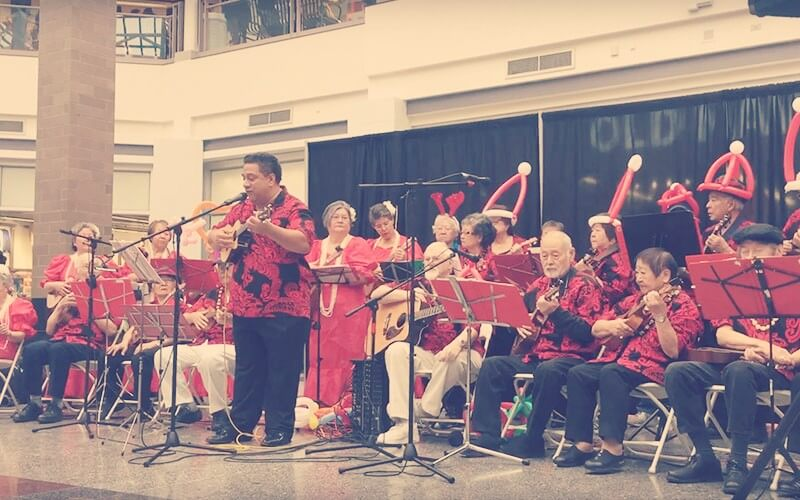
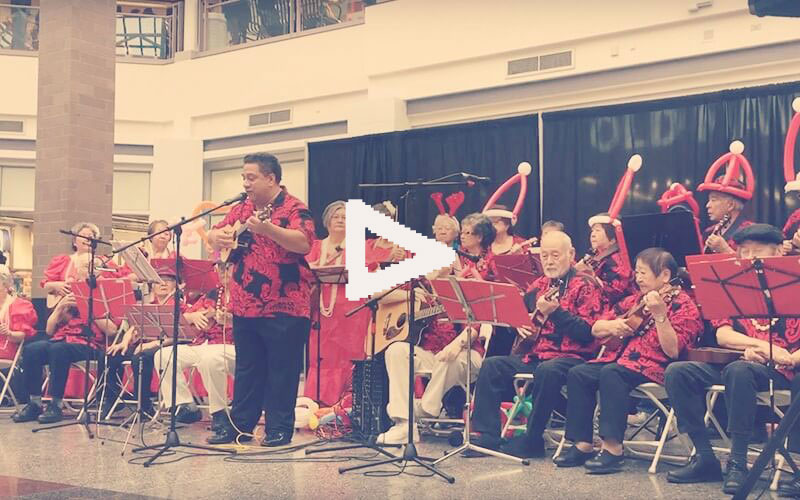
Updated responsive styles

Changed region(s): [[0.4062, 0.39, 0.5938, 0.6]]

diff --git a/index.html b/index.html
@@ -7,10 +7,10 @@ layout: default
   <div class="container">
     <div class="row">
       <div class="three columns">
-        <img src="images/nakupuna-logo.png">
+        <img class="nakupuna-logo" src="images/nakupuna-logo.png">
       </div>
       <div class="eight offset-by-one columns">
-        <p>In 1997, a group of Hawaiian-American seniors got together and formed a ukulele club in Chicago. They called it the Na Kupuna Ukulele Club, as Na Kupuna means "elder" in the Hawaiian language. Together, the group of island and mainland born seniors sing, strum the ukulele and dance the hula to over 300 songs, including iconic Hawaiian classics like "Aloha Oe," "Blue Hawaii," "Hawaiian Wedding Song" and "Kaulana Na Pua." The group has held countless performances over the years, all across Chicago and as far as Hawaii. One of the club's most notable performances was when the City of Chicago chose the Na Kupuna Ukulele Club to perform at the 2004 opening of Millennium Park.</p>
+        <p>In 1997, a group of Hawaiian-American seniors got together and formed a ukulele club in Chicago. They called it the Na Kupuna Ukulele Club, as Na Kupuna means &ldquo;elder&rdquo; in the Hawaiian language. Together, the group of island and mainland born seniors sing, strum the ukulele and dance the hula to over 300 songs, including iconic Hawaiian classics like &ldquo;Aloha Oe&rdquo;, &ldquo;Blue Hawaii&rdquo;, &ldquo;Hawaiian Wedding Song&rdquo;, and &ldquo;Kaulana Na Pua&rdquo;. The group has held countless performances over the years, all across Chicago and as far as Hawaii. One of the club&rsquo;s most notable performances was when the City of Chicago chose the Na Kupuna Ukulele Club to perform at the 2004 opening of Millennium Park.</p>
         <br>
         <p>Our love of music, camaraderie and appreciation for Hawaiian culture drives and inspires us to continue to make beautiful music together. Come see us soon. Aloha!</p>
       </div>
@@ -27,14 +27,14 @@ layout: default
         <h3>Lincolnwood Town Center Mall</h3>
         <p>Lincolnwood, Illinois</p>
         <p>10.10.2016</p>
-        <a href="https://www.youtube.com/watch?v=vSPQShVjiKU" class="button">Watch Video</a>
+        <a href="https://www.youtube.com/watch?v=vSPQShVjiKU" class="button button-spacer">Watch Video</a>
       </div>
       <div class="four columns">
         <a href="https://www.youtube.com/watch?v=-j_VtGdfgpQ"><img class="photo-thumb" src="images/waikiki.jpg"></a>
         <h3>44th Annual Ukulele Festival</h3>
         <p>Waikiki, Hawaii</p>
         <p>7.20.2014</p>
-        <a href="https://www.youtube.com/watch?v=-j_VtGdfgpQ" class="button">Watch Video</a>
+        <a href="https://www.youtube.com/watch?v=-j_VtGdfgpQ" class="button button-spacer">Watch Video</a>
       </div>
       <div class="four columns">
         <a href="https://www.youtube.com/watch?v=gYoh7faBmRY"><img class="photo-thumb" src="images/lincolnwood-02.jpg"></a>
@@ -71,13 +71,13 @@ layout: default
         <a href="https://www.chicagoreader.com/chicago/four-strings-and-a-cloud-of-dust/Content?oid=905158"><img class="photo-thumb" src="images/strings.jpg"></a>
         <h3>"Four Strings and a Cloud of Dust"</h3>
         <p>Chicago Reader</p>
-        <a href="https://www.chicagoreader.com/chicago/four-strings-and-a-cloud-of-dust/Content?oid=905158" class="button">Read Article</a>
+        <a href="https://www.chicagoreader.com/chicago/four-strings-and-a-cloud-of-dust/Content?oid=905158" class="button button-spacer">Read Article</a>
       </div>
       <div class="four columns">
         <a href="http://chicago.suntimes.com/news/toshiko-daisy-okura-obituary-rogers-park-chicago-ukelele-hawaiian/"><img class="photo-thumb" src="images/wedding.jpg"></a>
         <h3>"Toshiko ‘Daisy’ Okura, ukulele strummer from Hawaii"</h3>
         <p>Chicago Sun Times</p>
-        <a href="http://chicago.suntimes.com/news/toshiko-daisy-okura-obituary-rogers-park-chicago-ukelele-hawaiian/" class="button">Read Article</a>
+        <a href="http://chicago.suntimes.com/news/toshiko-daisy-okura-obituary-rogers-park-chicago-ukelele-hawaiian/" class="button button-spacer">Read Article</a>
       </div>
       <div class="four columns">
         <a href="http://www.chicagotribune.com/news/obituaries/ct-helen-kuwashima-obituary-met-20170801-story.html"><img class="photo-thumb" src="images/helen.jpg"></a>

diff --git a/_sass/_layout.scss b/_sass/_layout.scss
@@ -2,6 +2,11 @@
  * General content
  */
 
+.section-vertical-padding--small {
+  padding-top: $spacing-unit * 2;
+  padding-bottom: $spacing-unit * 2;
+}
+
 .section-vertical-padding {
   padding-top: $spacing-unit * 3;
   padding-bottom: $spacing-unit * 3;
@@ -17,7 +22,7 @@
  */
 
  .intro-section {
-  color: #ffffff;
+  color: #3C2109;
   padding-bottom: 12rem;
   position: relative;
   background: #f7ab96; /* Old browsers */
@@ -47,16 +52,6 @@
  * Performances section
  */
 
-.video-thumb {
-  position: relative;
-}
-
- .video-icon {
-  position: absolute;
-  width: 4rem;
-  z-index: 9;
- }
-
 .performances-section {
   color: #3C2109;
   background: url("../images/eggshell.jpg") repeat top center;
@@ -78,6 +73,11 @@
   -moz-box-shadow: 0px 0px 20px 3px rgba(60,33,9,0.15);
   box-shadow: 0px 0px 20px 3px rgba(60,33,9,0.15);
   border-radius: 4px;
+  transition: border-color 0.3s ease;
+}
+
+.photo-thumb:hover {
+  border-color: #fae2be;
 }
 
 
@@ -135,6 +135,7 @@
 
 .quote-section h2 {
   margin-bottom: 2rem;
+  line-height: 3rem;
  }
 
 .quote-section p {
@@ -156,15 +157,14 @@
 /**
  * Site footer
  */
-.site-footer {
-    padding: $spacing-unit 0;
-    background-image: url("../images/rainbow-island.png");
-    background-size: cover;
-    background-repeat: no-repeat;
-    background-position: center bottom;
-    color: white;
-    height: 700px;
-    position: relative;
+
+.sub-footer {
+  padding: $spacing-unit 0;
+  background-image: url("../images/rainbow-island.png");
+  background-size: cover;
+  background-repeat: no-repeat;
+  background-position: center bottom;
+  height: 400px;
 }
 
 .site-footer a {
@@ -172,38 +172,103 @@
   cursor: pointer;
 }
 
-.footer-text {
-    position: absolute;
-    bottom: 40px;
-    color: #ffffff;
-    z-index: 99;
+footer {
+    color: #3C2109;
     width: 100%;
+    background-color: #5fc8de;
     text-align: center;
     font-family: 'Merriweather', serif;
     font-weight: 400;
-}
-
-.footer-text h4 {
-    font-size: .9rem;
-    margin-bottom: .5rem;
-}
-
-.footer-text p {
-    font-size: .7rem;
-    margin-bottom: .5rem;
 }
 
 .flower {
   width: 2rem;
 }
 
-.blue-extend {
-  background-color: red;
-  height: 100px;
+footer h4 {
+    font-size: .9rem;
+    margin-bottom: .75rem;
 }
 
-.footer-text .legal-text{
+footer p {
+    font-size: .7rem;
+    line-height: 1.25rem;
+    margin-bottom: 1rem;
+}
+
+footer .legal-text{
   font-family: 'Londrina Solid', cursive;
   font-size: 1.125rem;
   letter-spacing: 1px;
 }
+
+
+/**
+ * Media Queries
+ */
+
+@media (max-width: 1000px) {
+  .quote-section {
+    padding-left: 3rem;
+    padding-right: 3rem;
+  }
+}
+
+@media (max-width: 550px) {
+
+  .section-vertical-padding--small {
+    padding-top: $spacing-unit * 0;
+    padding-bottom: $spacing-unit * 1;
+  }
+
+  .section-vertical-padding {
+    padding-top: $spacing-unit * 1.5;
+    padding-bottom: $spacing-unit * 1.5;
+  }
+
+  .section-vertical-padding--large {
+    padding-top: $spacing-unit * 2;
+    padding-bottom: $spacing-unit * 2;
+  }
+
+  .nakupuna-logo {
+    width: 8rem;
+  }
+
+  .button-spacer {
+    margin-bottom: $spacing-unit * 1.5;
+  }
+
+  .quote-section {
+    padding-left: 0;
+    padding-right: 0;
+ }
+
+  .quote-section h2 {
+    font-size: 2rem;
+    line-height: 2.5rem;
+    margin-bottom: 1rem;
+ }
+
+  .quote-section p {
+    font-size: .75rem;
+  }
+
+
+}
+
+
+
+
+
+
+
+
+
+
+
+
+
+
+
+

diff --git a/_includes/footer.html b/_includes/footer.html
@@ -1,5 +1,6 @@
-<footer class="site-footer text-center">
-  <div class="footer-text">
+<div class="sub-footer"></div>
+<footer class="section-vertical-padding--small">
+  <div class="container">
     <img class="flower" src="images/flower.png">
     <h4>This website was designed &amp; developed by Na Kupuna friends: <a href="https://dribbble.com/laureno">Lauren Okura</a> &amp; <a href="https://twitter.com/paul_maeda">Paul Maeda</a>.</h4>
     <p>Made with Github, Jekyll, Skeleton CSS, Sublime Text, Adobe Illustrator, Sketch, &amp; the Aloha Spirit.</p>

diff --git a/css/skeleton.css b/css/skeleton.css
@@ -121,7 +121,9 @@ input[type="button"] {
   color: #ffffff;
   background-color: #3C2109;
   cursor: pointer;
-  box-sizing: border-box; }
+  box-sizing: border-box;
+  transition: background-color 0.3s ease;
+  }
 .button:hover,
 button:hover,
 input[type="submit"]:hover,
